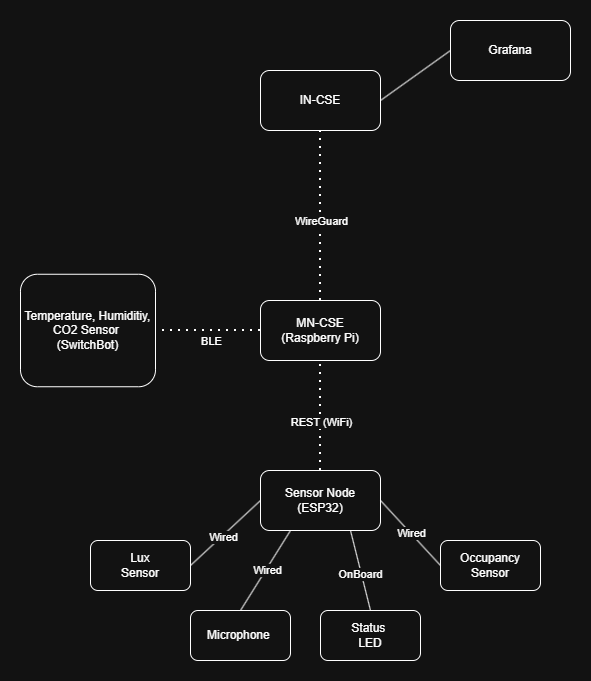
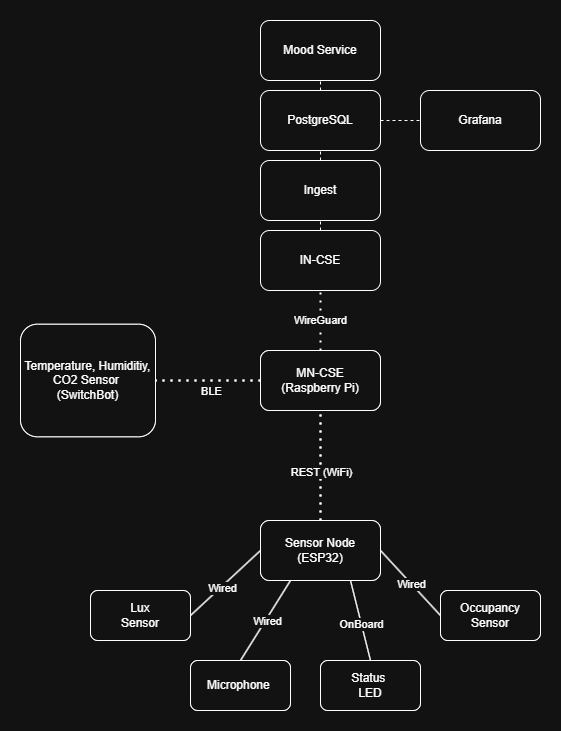
updated documentation

diff --git a/raspberry_mn-cse/README.md b/raspberry_mn-cse/README.md
@@ -4,6 +4,8 @@
 
 Raspberry Pi running a Middle Node CSE that bridges local BLE sensors to the cloud IN-CSE. Collects data from SwitchBot Meter Plus (CO₂, temperature, humidity) and forwards to cloud via WireGuard VPN.
 
+![MN-CSE Architecture](../images/MN-CSE.png)
+
 ## Components
 
 | Component | Purpose |
@@ -78,21 +80,6 @@ docker logs -f switchbot-sensor
 Expected output:
 ```
 [2025-11-16 10:30:35] Sensor updated: Temp=23.5C, Humidity=45%, CO2=850ppm
-```
-
-## OneM2M Resource Structure
-
-```
-room-mn-cse (MN-CSE)
-└── moodMonitorAE
-    └── Room01
-        └── deviceAirQualityMonitor (cod:dAQMr)
-            ├── airQualitySensor (cod:aiQSr) [announced to cloud]
-            │   ├── tempe: float (°C)
-            │   ├── humiy: float (%)
-            │   └── co2: float (ppm)
-            └── battery (cod:bat)
-                └── lvl: int (%)
 ```
 
 ## SwitchBot Sensor Details

diff --git a/cloud/README.md b/cloud/README.md
@@ -4,6 +4,8 @@
 
 Cloud platform for the Workspace Mood Monitor system. Runs oneM2M IN-CSE, ingests sensor telemetry, computes mood scores, controls LED feedback, and provides Grafana dashboards.
 
+![IN-CSE Architecture](../images/IN-CSE.png)
+
 ![Grafana Dashboard](../images/Grafana.png)
 
 ## Services
@@ -93,17 +95,6 @@ MN-CSE → WireGuard VPN → IN-CSE (8080)
                 ↓                    (via IN-CSE)
             Grafana (3000)
 ```
-
-## Supported Metrics
-
-| Metric | Synonyms | Unit |
-|--------|----------|------|
-| temperature | temp, tempe | °C |
-| humidity | rh, humiy | % |
-| co2 | co2ppm | ppm |
-| lux | lux | lux |
-| noise | louds | dB |
-| occupancy | occ | count |
 
 ## File Structure
 
